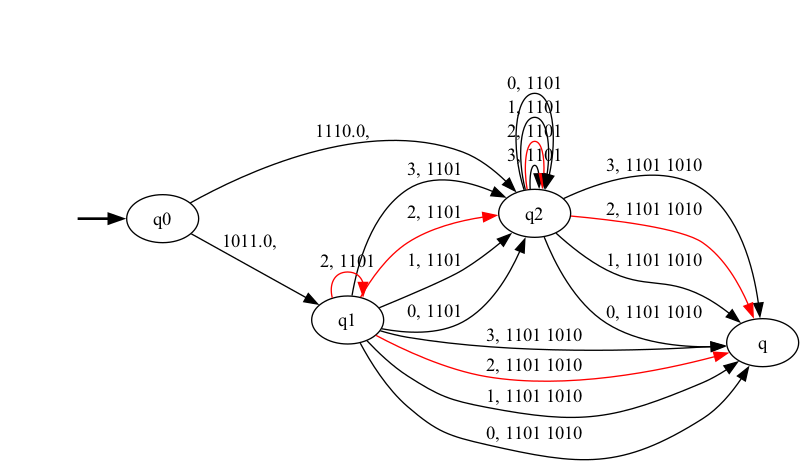
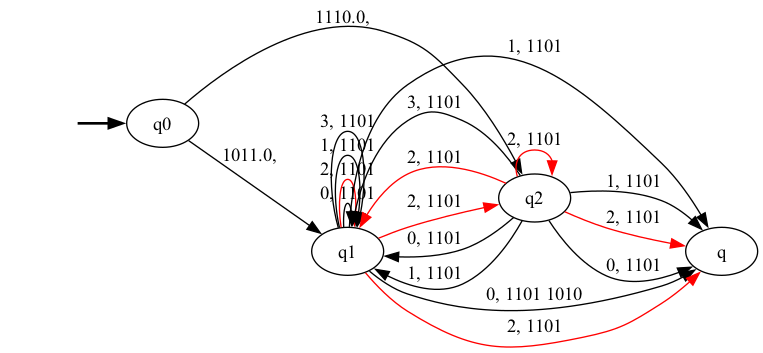
idk

diff --git a/learn_cyclic_pdfa.py b/learn_cyclic_pdfa.py
@@ -36,7 +36,12 @@ def add_new_candidates(D, t, q, Q, Q_prev_list, A, pdfa):
         X = get_suffixes(D, candidates[i, :], q, t)
         trajs = np.where(np.all(D[:, t, :] == candidates[i, :], axis=1))
         trajs = remove_nc(trajs, q.hist[0])
-        Q[t + 1].append(State('q' + pdfa.get_count(), X, A, candidates[i, :], trajs))
+        q_new= State('q' + pdfa.get_count(), X, A, candidates[i, :], trajs)
+        if not X:
+            # merge with final state
+            pdfa.add_transition(q, get_a(q_new), pdfa.end_state, get_o(q_new), get_r(q_new))
+            return Q, Q_prev_list
+        Q[t + 1].append(q_new)
         Q_prev_list[t + 1].append(q)
     return Q, Q_prev_list
 
@@ -44,10 +49,17 @@ def add_new_candidates_merge(D, t, q, q_prev, Q, Q_prev_list, A, pdfa):
     candidates = np.unique(D[q.hist[0], t, :], axis=0)  #t or t-1?
     for i in range(candidates.shape[0]):
         X = get_suffixes(D, candidates[i, :], q, t)
+
         trajs = np.where(np.all(D[:, t, :] == candidates[i, :], axis=1))
         trajs = remove_nc(trajs, q.hist[0])
-        Q[t + 1].append(State('q' + pdfa.get_count(), X, A, candidates[i, :], trajs))
+        q_new=State('q' + pdfa.get_count(), X, A, candidates[i, :], trajs)
+        if not X:
+            #merge with final state
+            pdfa.add_transition(q_prev, get_a(q_new), pdfa.end_state, get_o(q_new), get_r(q_new))
+            return Q, Q_prev_list
+        Q[t + 1].append(q_new)
         Q_prev_list[t + 1].append(q_prev)
+
     return Q, Q_prev_list
 
 
@@ -61,10 +73,12 @@ def get_max_qao(Q):
                     if q.n > n:
                         t = i
                         state = q
+                        n=q.n
             else:
                 if Q[i].n > n:
                     t = i
                     state = Q[i]
+                    n=q.n
 
     return state, t
 
@@ -83,6 +97,7 @@ def get_prev_state(q,t,Q, Q_prev_list):
 
 
 def add_state_to_Q_final(Q_final, Q, t, q, pdfa, Q_prev_list):
+    print("Addidin state to Q_final, t=", t)
     Q_final[t + 1].append(q)
     pdfa.add_transition(Q_prev_list[t][Q[t].index(q)], get_a(q), q, get_o(q), get_r(q))
     return Q_final
@@ -96,11 +111,13 @@ def get_similar_states(q_max, t_max, Q_final):
                 sim, threshold, v = test_distinct(q_max, q)
                 if sim:
                     similar.append(q)
+    if not similar:
+        print(q_max.name, "not similar to anything", q_max.X)
     return similar
 
 
 def merge(q1, q2, q_prev, pdfa):
-    if (not q2.X) and q1.X:
+    if (not q2.X) and q1.X :
         pdfa.add_transition(q_prev, get_a(q2), pdfa.end_state, get_o(q2), get_r(q2))
         return q1
     q1 = merge_history(q1, q2)
@@ -118,16 +135,16 @@ def printn(s, Q):
         if Q[i]:
             print("t: ", i)
             for q in Q[i]:
-                print(q.name)
+                print(q.name, q.n)
 
 
 def learn_cyclic_pdfa(D, first_obs, A, a_dict, K, H):
     Q = [None] * (H + 1)  # list of lists for all candidates
-    Q_final = [None] * (H + 1)  # list of lists for final safe states
+    Q_final = [None] * (H + 2)  # list of lists for final safe states
     Q_prev_list = [None] * (H + 1)
     Q_prev_list = initialise_Q(Q_prev_list, H + 1)
     Q = initialise_Q(Q, H + 1)
-    Q_final = initialise_Q(Q_final, H + 1)
+    Q_final = initialise_Q(Q_final, H + 2)
     # add initial pdfa state
     pdfa = PDFA(D, A, a_dict)
     q0 = pdfa.initial_state
@@ -140,18 +157,24 @@ def learn_cyclic_pdfa(D, first_obs, A, a_dict, K, H):
     while not_empty(Q):
         # printn("Q_prev_list", Q_prev_list)
         # printn("Q", Q)
+
         q_max, t_max = get_max_qao(Q)
+        print("CHosen q_max", q_max.name)
         similar = get_similar_states(q_max, t_max, Q_final)
         # promote if no similar
         if not similar:
             print("not similar, removing ", q_max.name)
+            print("T HERE", t_max)
             Q_final = add_state_to_Q_final(Q_final, Q, t_max, q_max, pdfa, Q_prev_list)
             Q, Q_prev_list = remove_candidate_from_Q(Q, Q_prev_list, q_max, t_max)
             # add new candidates stemming from this state
+            printn("Q_final", Q_final)
+
+            # print("from candidate ",get_prev_state(q_max, t_max, Q, Q_prev_list).name, " adding state ", q_max.name, " at t = ", t_max)
             Q, Q_prev_list = add_new_candidates(D, t_max, q_max, Q, Q_prev_list, A, pdfa)
             print("after adding new candidates")
-            # printn("Q_prev_list", Q_prev_list)
-            # printn("Q", Q)
+            printn("Q_prev_list", Q_prev_list)
+            printn("Q", Q)
 
         else:
 
@@ -162,7 +185,11 @@ def learn_cyclic_pdfa(D, first_obs, A, a_dict, K, H):
             Q, Q_prev_list = remove_candidate_from_Q(Q, Q_prev_list, q_max, t_max)
             if t_max != H:
                 # HERE while adding you've to add the q_prev of q_max to the prev list. not current q_max
+                print("before adding merge candidates")
+                printn("Q", Q)
                 Q, Q_prev_list = add_new_candidates_merge(D, t_max, q_max, q_prev, Q, Q_prev_list, A,pdfa)
+                print("after adding merge candidates")
+                printn("Q", Q)
             # if not (q_max.c[2]==4 or q_max.c[2]==-1):
             #     Q, Q_prev_list = add_new_candidates(D, t_max, q_max, Q, Q_prev_list, A, pdfa)
             # printn("Q_prev_list", Q_prev_list)

diff --git a/src/utils_pdfa/adact_utils.py b/src/utils_pdfa/adact_utils.py
@@ -7,13 +7,6 @@ def get_suffixes(D, q, q_prev, h):
     a = np.where(np.all(d1 == q, axis=1))
     a = remove_nc(a, q_prev.hist)
     d_new = (D[:, h:, :]).astype(int)
-    # d_new2 = d_new[a[0], 1, :]
-    # fr = np.unique(d_new2, axis=0)
-    # l = []
-    #
-    # for r in range(fr.shape[0]):
-    #     l.append(str(fr[r, 0]) + str(fr[r, 1])+ str(fr[r, 2]))
-
     d_new2 = d_new[a[0], 1:, :]
     d_new2 = d_new2.reshape((d_new2.shape[0] * d_new2.shape[1], d_new2.shape[2]))
     fr = np.unique(d_new2, axis=0)
@@ -30,15 +23,23 @@ def test_distinct(Q1, Q2):
         return False, 0, 0
     print("comparing ", Q1.name, Q2.name)
     print("suffixes ", Q1.X, Q2.X)
-    # if Q1.X==Q2.X:
     if (not Q1.X and Q2.X) or (not Q2.X and Q1.X):
-        return True, 0, 0
-    if set(Q1.X) <= set(Q2.X) or set(Q1.X) <= set(Q2.X):
-        print("same")
-        return True, 0, 0
-    else:
-        print("different")
         return False, 0, 0
+    S = Q1.X + list(set(Q1.X) - set(Q2.X))
+    if not S:
+        return True, 0, 0
+    for s in S:
+        if (s in Q1.X and s not in Q2.X) or (s in Q2.X and s not in Q1.X):
+            return False, 0, 0
+    return True, 0, 0
+    # if (not Q1.X and Q2.X) or (not Q2.X and Q1.X):
+    #     return True, 0, 0
+    # if set(Q1.X) <= set(Q2.X) or set(Q1.X) <= set(Q2.X):
+    #     print("same")
+    #     return True, 0, 0
+    # else:
+    #     print("different")
+    #     return False, 0, 0
 
 
 # def cosine_similarity(a, b):
@@ -53,13 +54,6 @@ def merge_history(q1, q2):
 
 
 def get_first_suffixes(D, O, q):
-    # a = np.where(np.all(O == q, axis=1))
-    # d_new2 = D[a[0], 0, :].astype(int)
-    # # d_new2 = d_new2.reshape((d_new2.shape[0], d_new2.shape[2]))
-    # fr = np.unique(d_new2, axis=0)
-    # l = []
-    # for r in range(fr.shape[0]):
-    #     l.append(str(fr[r, 0]) + str(fr[r, 1])+ str(fr[r, 2]))
     a = np.where(np.all(O == q, axis=1))
     d_new2 = D[a[0], 1:, :].astype(int)
     d_new2 = d_new2.reshape((d_new2.shape[0] * d_new2.shape[1], d_new2.shape[2]))
@@ -81,9 +75,5 @@ def remove_nc(trajs, hist):
 
 
 def get_suffixes_q0(q0):
-    l = []
-    for i in range(q0.X.shape[0]):
-        for j in range(q0.X.shape[1]):
-            l.append(str(q0.X[i, j, 0]) + str(q0.X[i, j, 1]) + str(q0.X[i, j, 2]))
     q0.X = ['0']
     return q0

diff --git a/main.py b/main.py
@@ -5,7 +5,7 @@ from learn_cyclic_pdfa import learn_cyclic_pdfa
 
 if __name__ == "__main__":
     K = 5000
-    H = 4
+    H = 5
     A = 4
     env = "t-maze"
     alpha = "t-maze"
